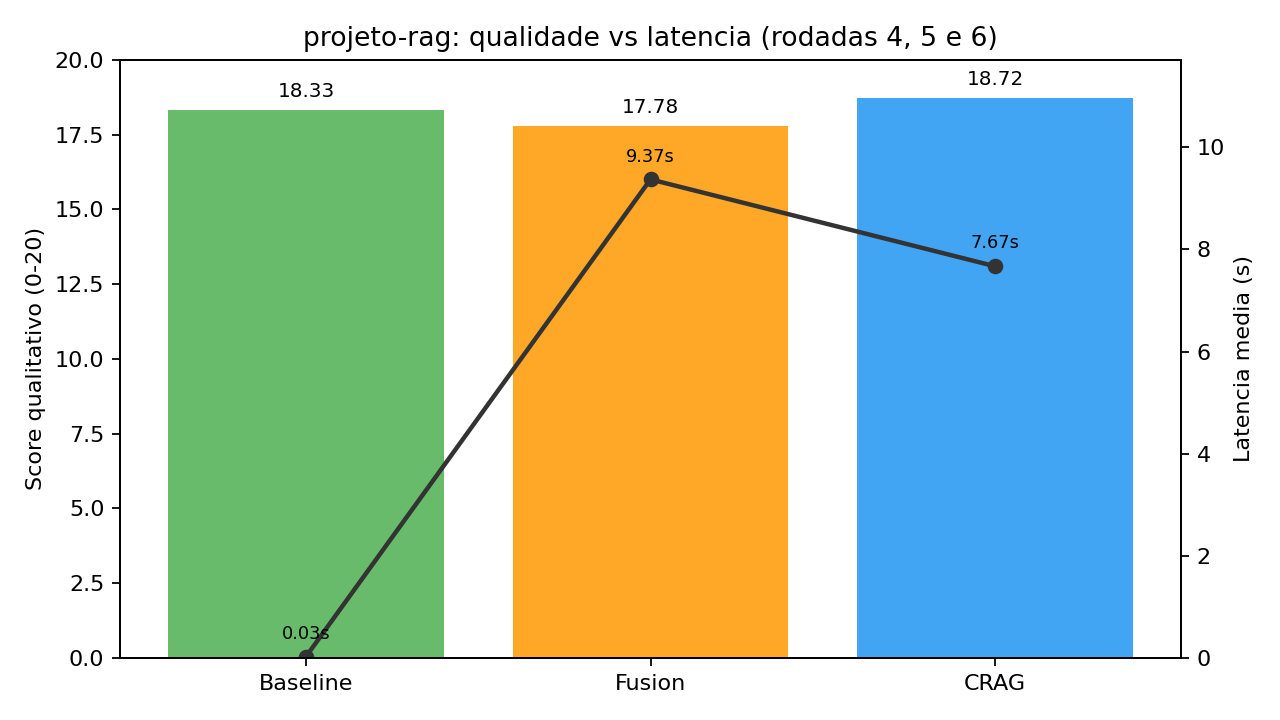
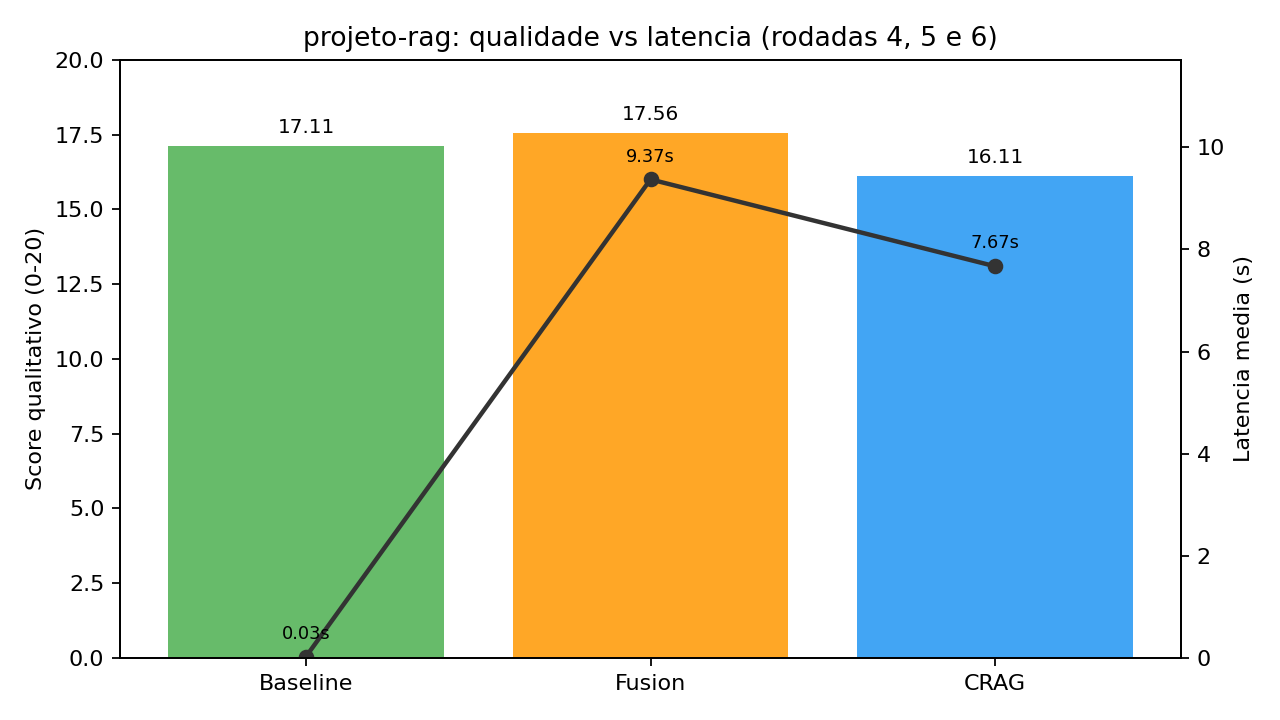
docs: adicionar radar matplotlib e atualizar metricas da rodada 6

Changed region(s): [[0.6562, 0.0917, 0.9062, 0.2444], [0.125, 0.1222, 0.3438, 0.2139], [0.4062, 0.1222, 0.625, 0.1833]]

diff --git a/scripts/avaliacao_qualitativa_cega_rag.py b/scripts/avaliacao_qualitativa_cega_rag.py
@@ -231,6 +231,11 @@ def main():
 
     results = []
     method_totals = {'baseline': [], 'fusion': [], 'crag': []}
+    method_dims = {
+        'baseline': {'precisao': [], 'cobertura': [], 'clareza': [], 'aderencia_contexto': []},
+        'fusion': {'precisao': [], 'cobertura': [], 'clareza': [], 'aderencia_contexto': []},
+        'crag': {'precisao': [], 'cobertura': [], 'clareza': [], 'aderencia_contexto': []},
+    }
     rank_points = {'baseline': 0, 'fusion': 0, 'crag': 0}
 
     for case in CASES:
@@ -275,6 +280,8 @@ def main():
             s = scores.get(label, {}) if isinstance(scores, dict) else {}
             if method:
                 per_method_scores[method] = total_score(s)
+                for k in ('precisao', 'cobertura', 'clareza', 'aderencia_contexto'):
+                    method_dims[method][k].append(float(s.get(k, 0)))
 
         for m in ('baseline', 'fusion', 'crag'):
             method_totals[m].append(per_method_scores[m])
@@ -302,6 +309,10 @@ def main():
         )
 
     avg_scores = {m: round(statistics.mean(vals), 2) if vals else 0.0 for m, vals in method_totals.items()}
+    avg_dims = {
+        m: {k: round(statistics.mean(v), 2) if v else 0.0 for k, v in dims.items()}
+        for m, dims in method_dims.items()
+    }
     avg_elapsed = round(statistics.mean(r['elapsed_s'] for r in results), 2)
 
     lines = [
@@ -318,6 +329,11 @@ def main():
         f"- Score medio total crag: **{avg_scores['crag']:.2f}/20**",
         f"- Pontos de ranking acumulados (1o=3, 2o=2, 3o=1): baseline={rank_points['baseline']}, fusion={rank_points['fusion']}, crag={rank_points['crag']}",
         f'- Tempo medio por caso (pipeline completo): **{avg_elapsed:.2f}s**',
+        '',
+        '## Medias por criterio (0-5)',
+        f"- Baseline: precisao={avg_dims['baseline']['precisao']}, cobertura={avg_dims['baseline']['cobertura']}, clareza={avg_dims['baseline']['clareza']}, aderencia={avg_dims['baseline']['aderencia_contexto']}",
+        f"- Fusion: precisao={avg_dims['fusion']['precisao']}, cobertura={avg_dims['fusion']['cobertura']}, clareza={avg_dims['fusion']['clareza']}, aderencia={avg_dims['fusion']['aderencia_contexto']}",
+        f"- CRAG: precisao={avg_dims['crag']['precisao']}, cobertura={avg_dims['crag']['cobertura']}, clareza={avg_dims['crag']['clareza']}, aderencia={avg_dims['crag']['aderencia_contexto']}",
         '',
         '## Resultado por colecao',
         '',
@@ -343,6 +359,7 @@ def main():
                 'avg_scores': avg_scores,
                 'rank_points': rank_points,
                 'avg_elapsed_s': avg_elapsed,
+                'avg_dims': avg_dims,
                 'results': results,
             },
             ensure_ascii=False,

diff --git a/scripts/plot_quality_radar.py b/scripts/plot_quality_radar.py
@@ -1,0 +1,46 @@
+import json
+from pathlib import Path
+
+import matplotlib.pyplot as plt
+import numpy as np
+
+ROOT = Path('/home/ecode/Documents/projetos/projeto-rag')
+DATA = ROOT / 'analises' / 'avaliacao-qualitativa-cega-rodada-6.json'
+OUT = ROOT / 'assets' / 'quality_radar.png'
+OUT.parent.mkdir(parents=True, exist_ok=True)
+
+payload = json.loads(DATA.read_text(encoding='utf-8'))
+avg_dims = payload['avg_dims']
+
+categories = ['precisao', 'cobertura', 'clareza', 'aderencia_contexto']
+labels = ['Precisão', 'Cobertura', 'Clareza', 'Aderência']
+angles = np.linspace(0, 2 * np.pi, len(categories), endpoint=False).tolist()
+angles += angles[:1]
+
+fig = plt.figure(figsize=(6.2, 6.2))
+ax = plt.subplot(111, polar=True)
+
+styles = {
+    'baseline': ('#4CAF50', 'Baseline'),
+    'fusion': ('#FF9800', 'Fusion'),
+    'crag': ('#2196F3', 'CRAG'),
+}
+
+for key in ['baseline', 'fusion', 'crag']:
+    vals = [avg_dims[key][c] for c in categories]
+    vals += vals[:1]
+    color, name = styles[key]
+    ax.plot(angles, vals, color=color, linewidth=2, label=name)
+    ax.fill(angles, vals, color=color, alpha=0.15)
+
+ax.set_xticks(angles[:-1])
+ax.set_xticklabels(labels)
+ax.set_ylim(0, 5)
+ax.set_yticks([1, 2, 3, 4, 5])
+ax.set_yticklabels(['1', '2', '3', '4', '5'])
+ax.set_title('Qualidade por critério (rodada 6)', pad=20)
+ax.legend(loc='upper right', bbox_to_anchor=(1.2, 1.12))
+
+fig.tight_layout()
+fig.savefig(OUT, dpi=160)
+print(OUT)

diff --git a/scripts/plot_benchmark_overview.py b/scripts/plot_benchmark_overview.py
@@ -5,7 +5,7 @@ out = Path('/home/ecode/Documents/projetos/projeto-rag/assets/benchmark_overview
 out.parent.mkdir(parents=True, exist_ok=True)
 
 labels = ['Baseline', 'Fusion', 'CRAG']
-qualidade = [18.33, 17.78, 18.72]
+qualidade = [17.11, 17.56, 16.11]
 latencia = [0.03, 9.37, 7.67]
 
 fig, ax1 = plt.subplots(figsize=(8, 4.5))

diff --git a/analises/avaliacao-qualitativa-cega-rodada-6.md b/analises/avaliacao-qualitativa-cega-rodada-6.md
@@ -6,29 +6,34 @@
 - Juiz LLM aplicou rubrica 0-5 em: precisao, cobertura, clareza e aderencia ao contexto.
 
 ## Resultado agregado
-- Score medio total baseline: **18.33/20**
-- Score medio total fusion: **17.78/20**
-- Score medio total crag: **18.72/20**
-- Pontos de ranking acumulados (1o=3, 2o=2, 3o=1): baseline=15, fusion=18, crag=21
-- Tempo medio por caso (pipeline completo): **96.71s**
+- Score medio total baseline: **17.11/20**
+- Score medio total fusion: **17.56/20**
+- Score medio total crag: **16.11/20**
+- Pontos de ranking acumulados (1o=3, 2o=2, 3o=1): baseline=20, fusion=21, crag=13
+- Tempo medio por caso (pipeline completo): **102.20s**
+
+## Medias por criterio (0-5)
+- Baseline: precisao=4.22, cobertura=4.33, clareza=4.22, aderencia=4.33
+- Fusion: precisao=4.22, cobertura=4.56, clareza=4.22, aderencia=4.56
+- CRAG: precisao=4.0, cobertura=4.11, clareza=3.89, aderencia=4.11
 
 ## Resultado por colecao
 
 | Colecao | Baseline (/20) | Fusion (/20) | CRAG (/20) | Acao CRAG | Web chunks | Tempo(s) |
 |---|---:|---:|---:|---|---:|---:|
-| `sandeco_prompts_v1` | 18.00 | 16.00 | 19.50 | CORRECT | 0 | 116.98 |
-| `sandeco_guardrails_v1` | 19.00 | 12.00 | 17.00 | CORRECT | 0 | 85.54 |
-| `sandeco_python_ia_v1` | 17.00 | 20.00 | 20.00 | CORRECT | 0 | 107.64 |
-| `sandeco_crewai1_v1` | 18.00 | 20.00 | 18.00 | CORRECT | 0 | 98.01 |
-| `sandeco_crewai2_v1` | 17.00 | 19.00 | 20.00 | CORRECT | 0 | 84.97 |
-| `sandeco_mcp_a2a_v1` | 18.00 | 18.00 | 18.00 | CORRECT | 0 | 83.58 |
-| `sandeco_rag_book_v1` | 20.00 | 18.00 | 16.00 | CORRECT | 0 | 108.39 |
-| `sandeco_orange_v1` | 19.00 | 19.00 | 20.00 | CORRECT | 0 | 71.38 |
-| `sandeco_deep_learning_v1` | 19.00 | 18.00 | 20.00 | CORRECT | 0 | 113.88 |
+| `sandeco_prompts_v1` | 16.00 | 19.00 | 14.00 | CORRECT | 0 | 112.89 |
+| `sandeco_guardrails_v1` | 20.00 | 17.00 | 12.00 | CORRECT | 0 | 91.83 |
+| `sandeco_python_ia_v1` | 12.00 | 16.00 | 20.00 | CORRECT | 0 | 92.41 |
+| `sandeco_crewai1_v1` | 16.00 | 20.00 | 16.00 | CORRECT | 0 | 112.21 |
+| `sandeco_crewai2_v1` | 20.00 | 16.00 | 16.00 | CORRECT | 0 | 111.41 |
+| `sandeco_mcp_a2a_v1` | 18.00 | 17.00 | 19.00 | CORRECT | 0 | 92.07 |
+| `sandeco_rag_book_v1` | 17.00 | 16.00 | 16.00 | CORRECT | 0 | 138.82 |
+| `sandeco_orange_v1` | 16.00 | 18.00 | 16.00 | CORRECT | 0 | 76.92 |
+| `sandeco_deep_learning_v1` | 19.00 | 19.00 | 16.00 | CORRECT | 0 | 91.26 |
 
 ## Comentarios curtos do juiz (amostra)
-- `sandeco_prompts_v1`: A oferece a avaliação mais completa e estruturada, incluindo templates e exemplos; C é sólido e útil, mas menos abrangente que A; B é bom, porém menos alinhado ao formato JSON exigido.
-- `sandeco_guardrails_v1`: A oferece o conjunto mais completo de guardrails e critérios; C apresenta uma versão prática, clara e direta; B é menos focal e menos detalhado sobre guardrails.
-- `sandeco_python_ia_v1`: A oferece o panorama mais completo com exemplo de código e fluxo end-to-end; B reforça o pipeline, integração e deploy com boa clareza; C apresenta uma visão sólida porém menos detalhada que A/B.
-- `sandeco_crewai1_v1`: Resposta B oferece a explicação mais completa e prática, incluindo fluxo, paralelização e hierarquia. C é sólido e claro, cobrindo o essencial com exemplos, enquanto A está correto, mas menos abrangente em comparação com B e C.
-- `sandeco_crewai2_v1`: A é o mais detalhado e alinhado com o ecossistema CrewAI (Tools, @tool, Streamlit). C é estruturado e abrangente, com foco em governança e IA. B é direto e conciso, mas menos cobertivo.
+- `sandeco_prompts_v1`: Avaliando objetivamente, a resposta B oferece a maior clareza, estrutura e cobertura de templates para prompts técnicos; A possui conteúdo útil porém menos estruturado e contém um erro pontual que afeta a precisão; C é sólido e bem definido, mas menos expansivo que B.
+- `sandeco_guardrails_v1`: A oferece o conjunto mais completo de guardrails e fluxo iterativo, com prompts e métricas bem definidas. B é igualmente robusta e prática, mas um pouco menos detalhada que A. C é mais introdutório e requer maior definição de guardrails e fluxo para alinhar ao objetivo.
+- `sandeco_python_ia_v1`: A oferece maior abrangência e exemplos práticos; B apresenta uma solução sólida com passos práticos; C é objetivo, porém menos detalhado. Todos estão alinhados ao contexto introdutório, com A sendo o mais completo.
+- `sandeco_crewai1_v1`: Resposta B apresenta a visão mais completa, precisa e alinhada ao contexto, com definição clara de Agent, Task, Crew, e fluxo. A oferece bom passo a passo e exemplos; C é claro, mas menos abrangente.
+- `sandeco_crewai2_v1`: A resposta B oferece a lista mais abrangente e bem alinhada ao ecossistema CrewAI intermediário, cobrindo APIs, bancos de dados, IA, mensageria, observabilidade, segurança e UI. A e C são sólidas, mas com cobertura e consistência levemente menores.

diff --git a/README.md b/README.md
@@ -36,9 +36,11 @@ Construir uma base de conhecimento **solida, auditavel e reutilizavel** para IA 
   - novelty@8 do crag vs fusion: ~0.22
 
 - **Rodada 6 — Avaliacao qualitativa cega**
-  - baseline: 18.33/20
-  - fusion: 17.78/20
-  - crag: 18.72/20
+  - baseline: 17.11/20
+  - fusion: 17.56/20
+  - crag: 16.11/20
+
+![Radar de qualidade por criterio](assets/quality_radar.png)
 
 ## Uso diario (chat RAG)
 Script operacional:
